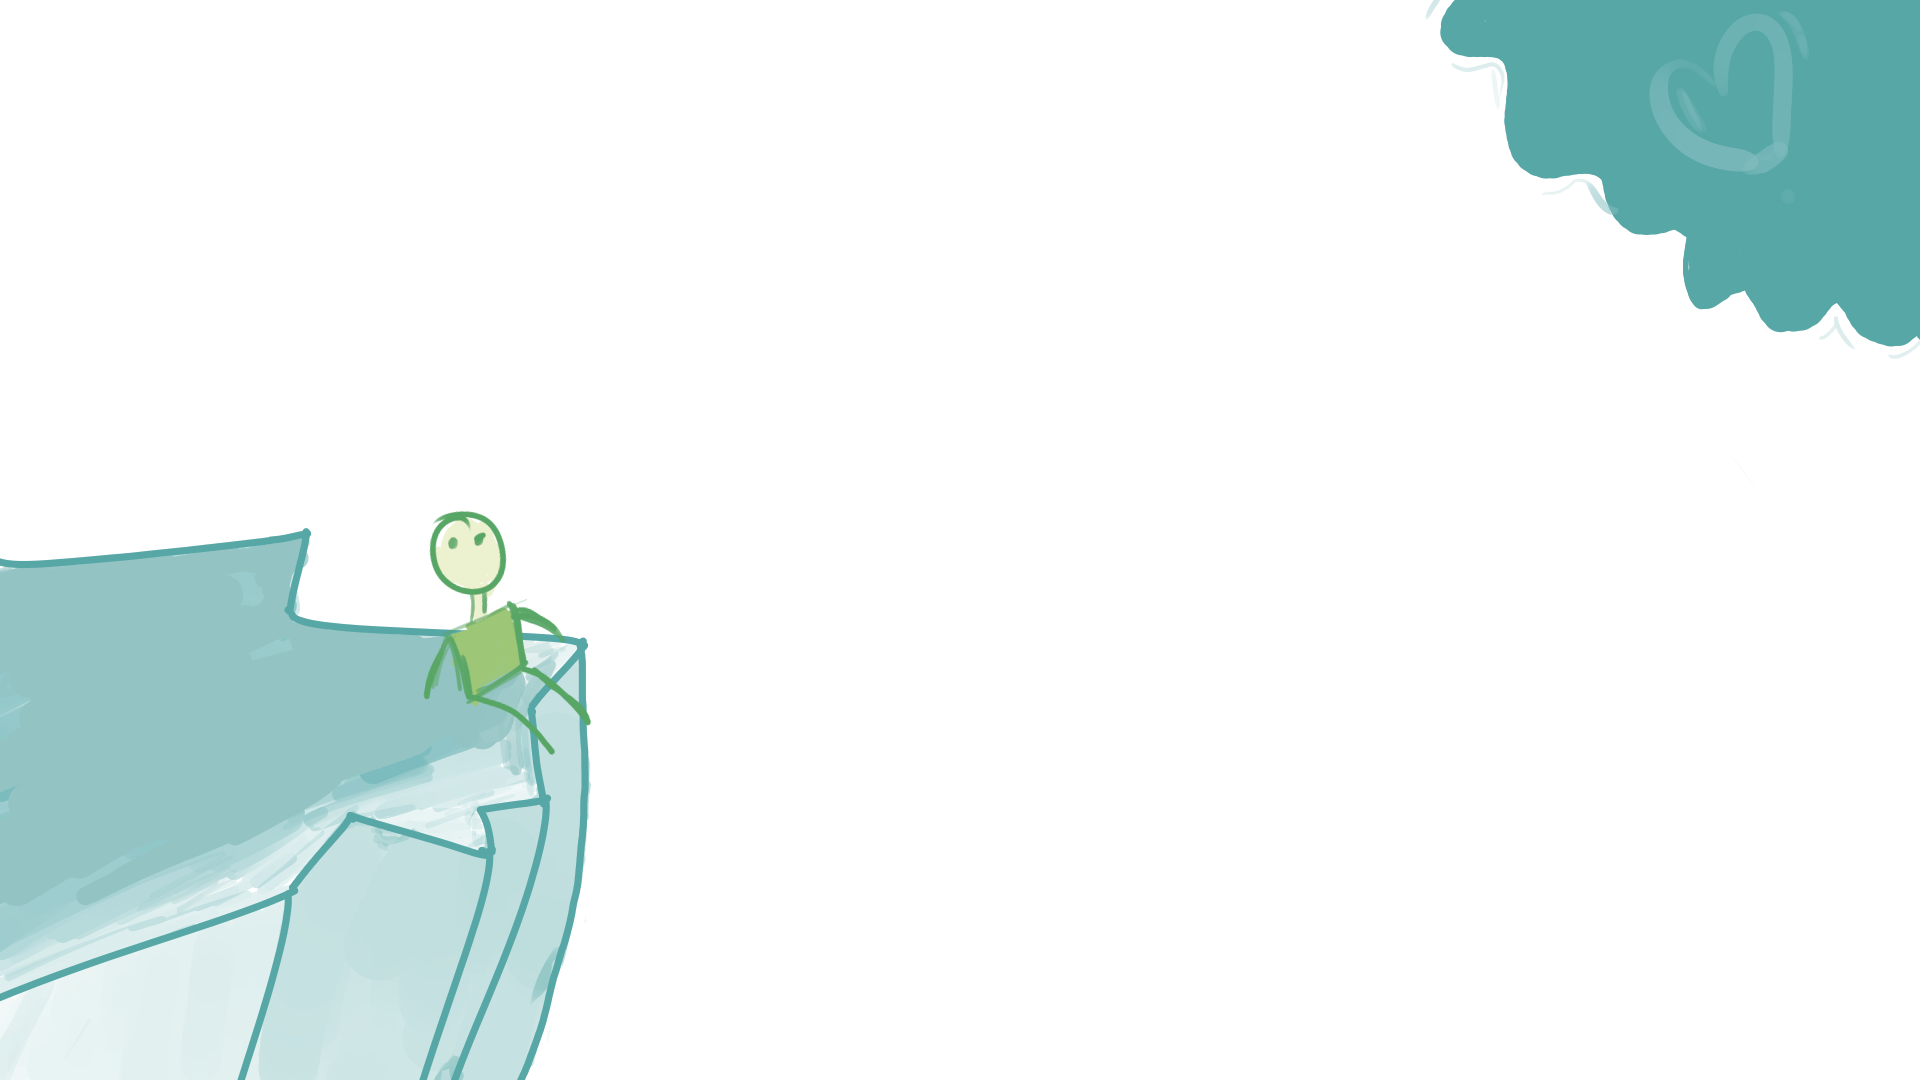
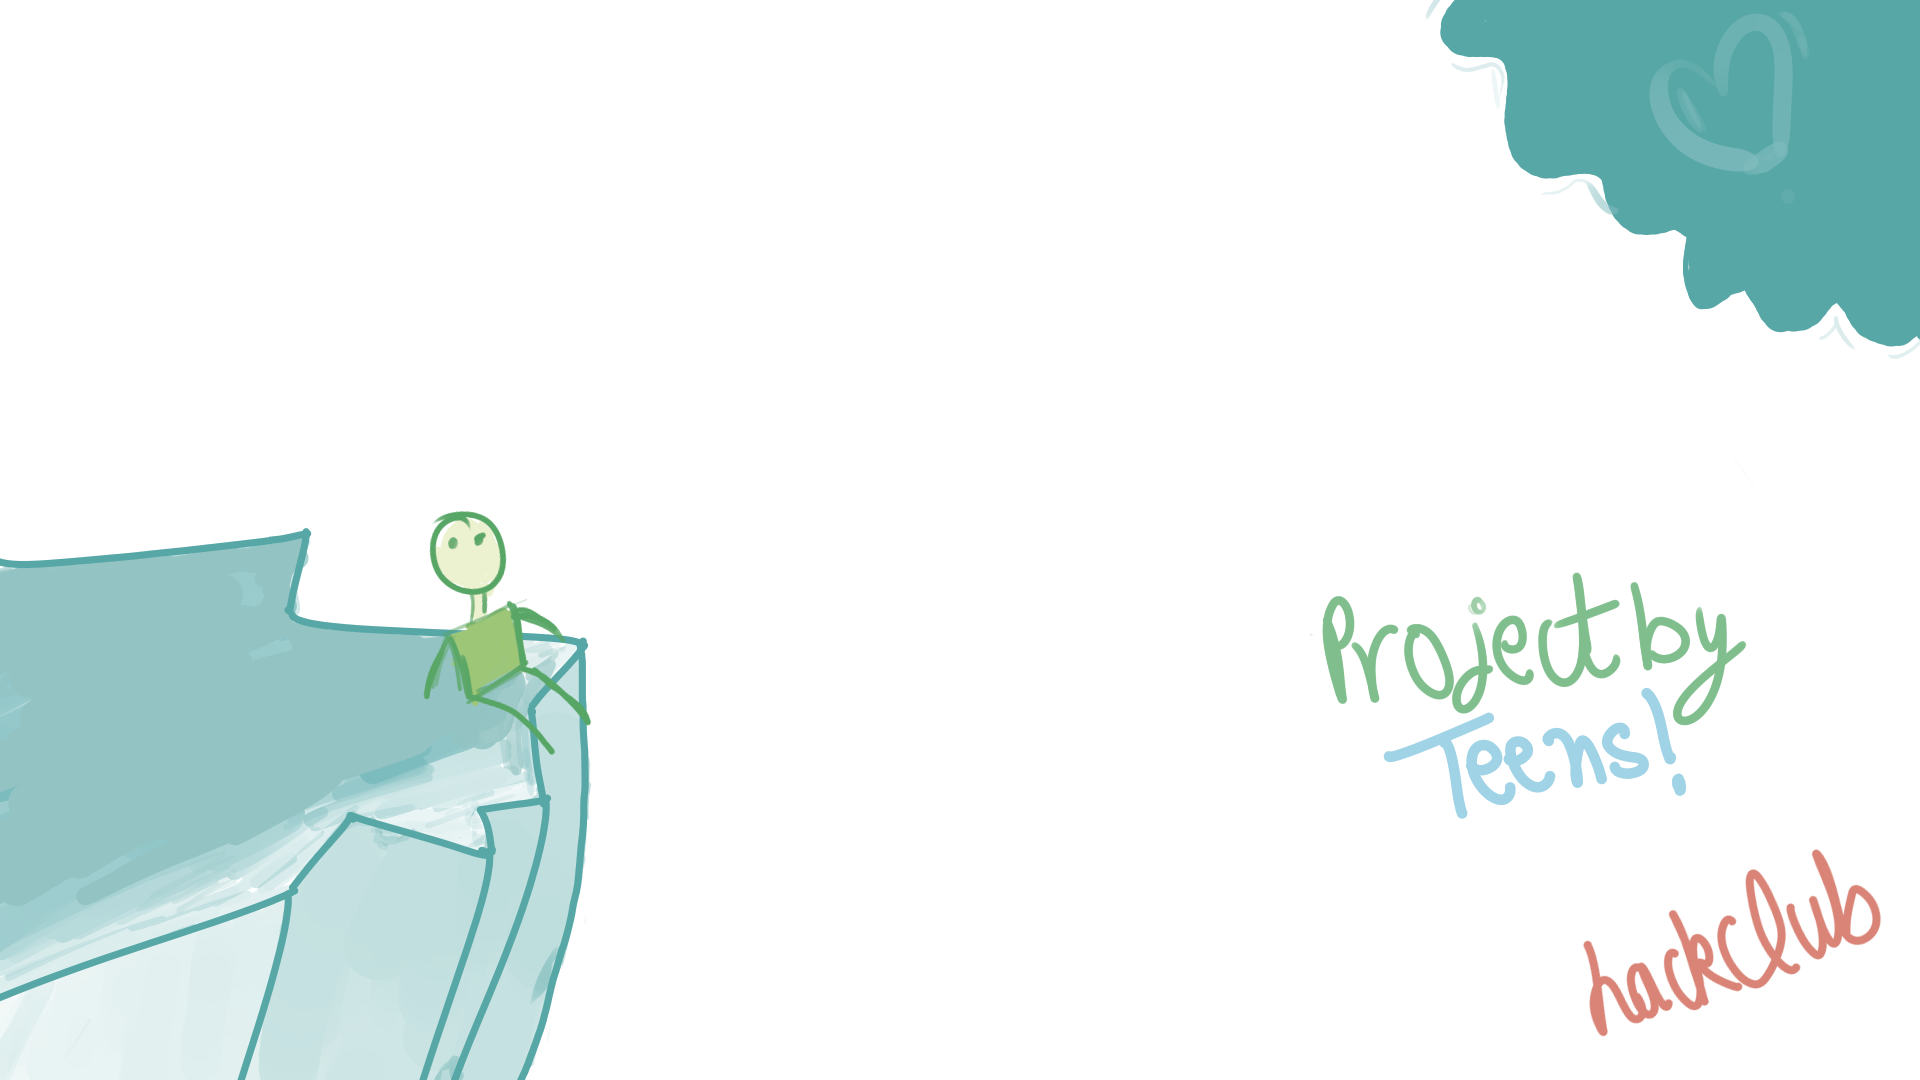
chore: fix footer art

Changed region(s): [[0.6875, 0.55, 0.9062, 0.7639], [0.8125, 0.7944, 1.0, 0.9472]]

diff --git a/app/components/Footer.tsx b/app/components/Footer.tsx
@@ -10,29 +10,6 @@ export function Footer() {
         className="absolute inset-0 bg-cover bg-center z-10 "
         style={{ backgroundImage: "url('/cliff-with-guy-and-heart.png')" }}
       />
-
-      <img
-        src="/project-by.png"
-        alt="project-by"
-        className="absolute z-20 top-120  h-auto w-80"
-        style={{ bottom: "24px", right: "120px" }}
-      />
-      <a href="" className="group">
-        <img
-          src="/teens.png"
-          alt="teens"
-          className="absolute group-hover:h-40  z-20 top-145 left-290 h-auto w-60"
-          style={{ bottom: "24px", right: "120px" }}
-        />
-      </a>
-      <a href="https://hackclub.com" target="_blank" className="group">
-        <img
-          src="/hackclub.png"
-          alt="hackclub"
-          className="absolute z-20 group-hover:h-40 top-165 left-330 h-auto w-60"
-          style={{ bottom: "24px", right: "120px" }}
-        />
-      </a>
     </div>
   );
 }
